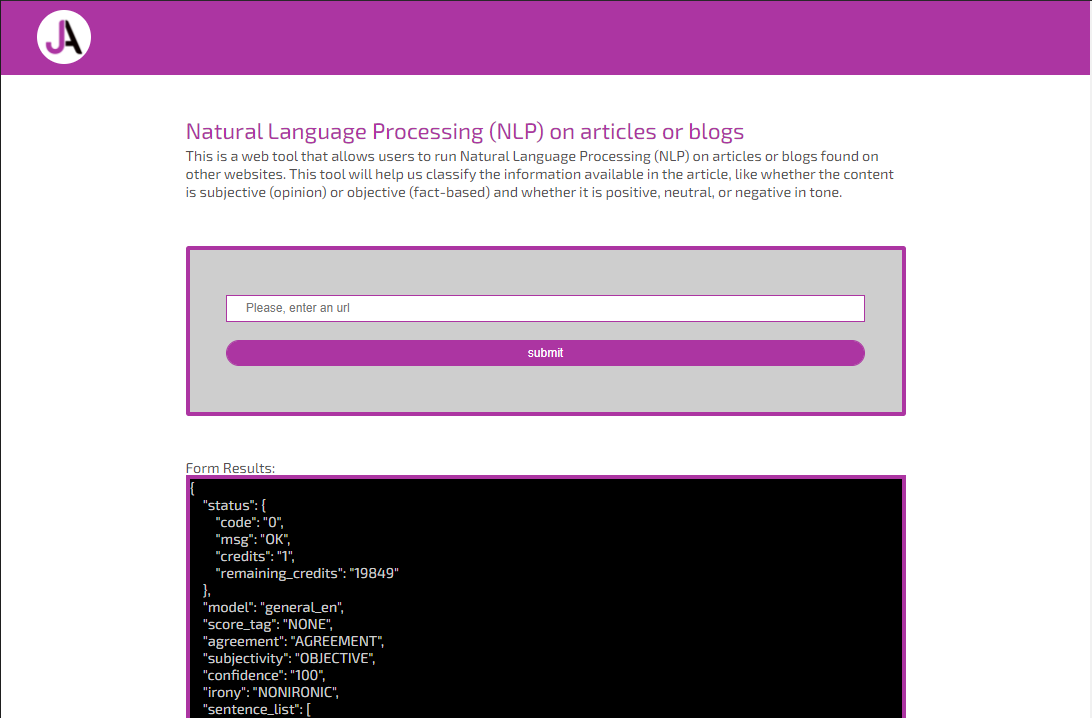
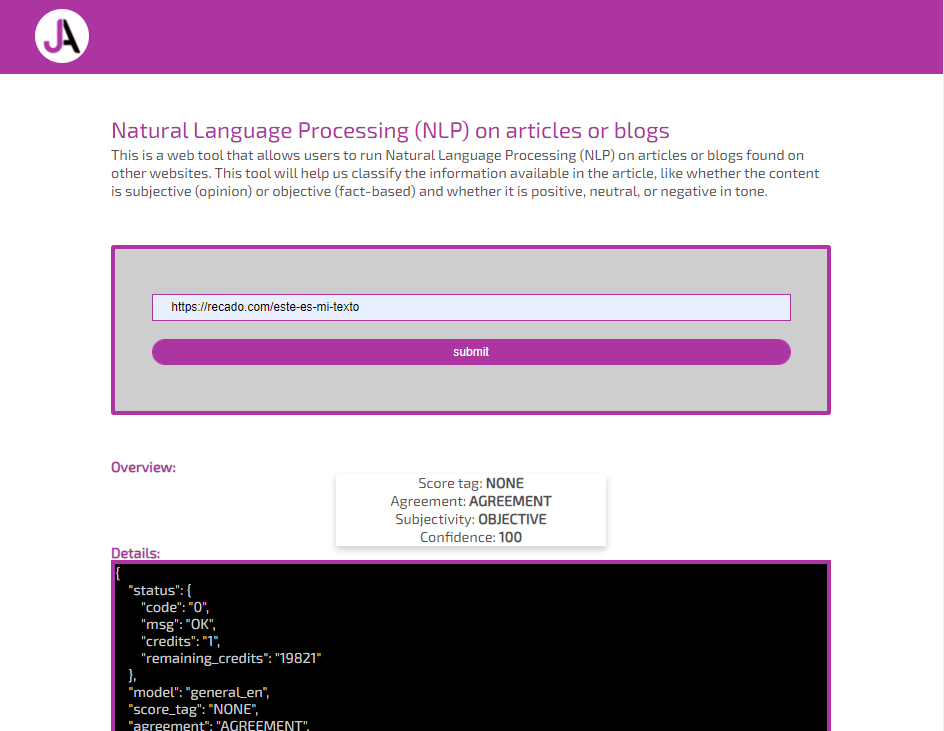
feature: Add display selected fields from API results

diff --git a/src/client/js/formHandler.js b/src/client/js/formHandler.js
@@ -17,6 +17,13 @@ function handleSubmit(event) {
         })
         .then(response => response.json())
         .then(function(response) {
+            const card = document.getElementById('card');
+            card.innerHTML =    `
+                                <p>Score tag:  <span>${response.score_tag}</span></p>
+                                <p>Agreement:  <span>${response.agreement}</span></p>
+                                <p>Subjectivity:  <span>${response.subjectivity}</span></p>
+                                <p>Confidence:  <span>${response.confidence}</span></p>
+                                `;
             resultContainer.className = "result-api";
             const paragraph = document.createElement('pre');
             resultContainer.appendChild(paragraph);

diff --git a/src/client/styles/base.scss b/src/client/styles/base.scss
@@ -7,6 +7,10 @@ body {
         font-size: 25px;
         margin-bottom: 5px;
     }
+    h2 {
+        color: $color-brand;
+        font-weight: bold;
+    }
     p {
         line-height: 20px;
     }
@@ -22,6 +26,17 @@ body {
         }
     }
 }
+
+.card {
+    box-shadow: 0 4px 8px 0 rgba(0, 0, 0, 0.2);
+    max-width: 300px;
+    margin: auto;
+    text-align: center;
+    span {
+        color: $color-grey-dark;
+        font-weight: bold;
+    }
+  }
 
 .result-api{
     background-color: $color-dark;

diff --git a/src/client/views/index.html b/src/client/views/index.html
@@ -27,7 +27,10 @@
                 </form>
             </section>
             <section>
-                <strong>Form Results:</strong>
+                <h2>Overview:</h2>
+                <div id="card" class="card">
+                </div>
+                <h2>Details:</h2>
                 <div id="results"></div>
             </section>
         </main>
